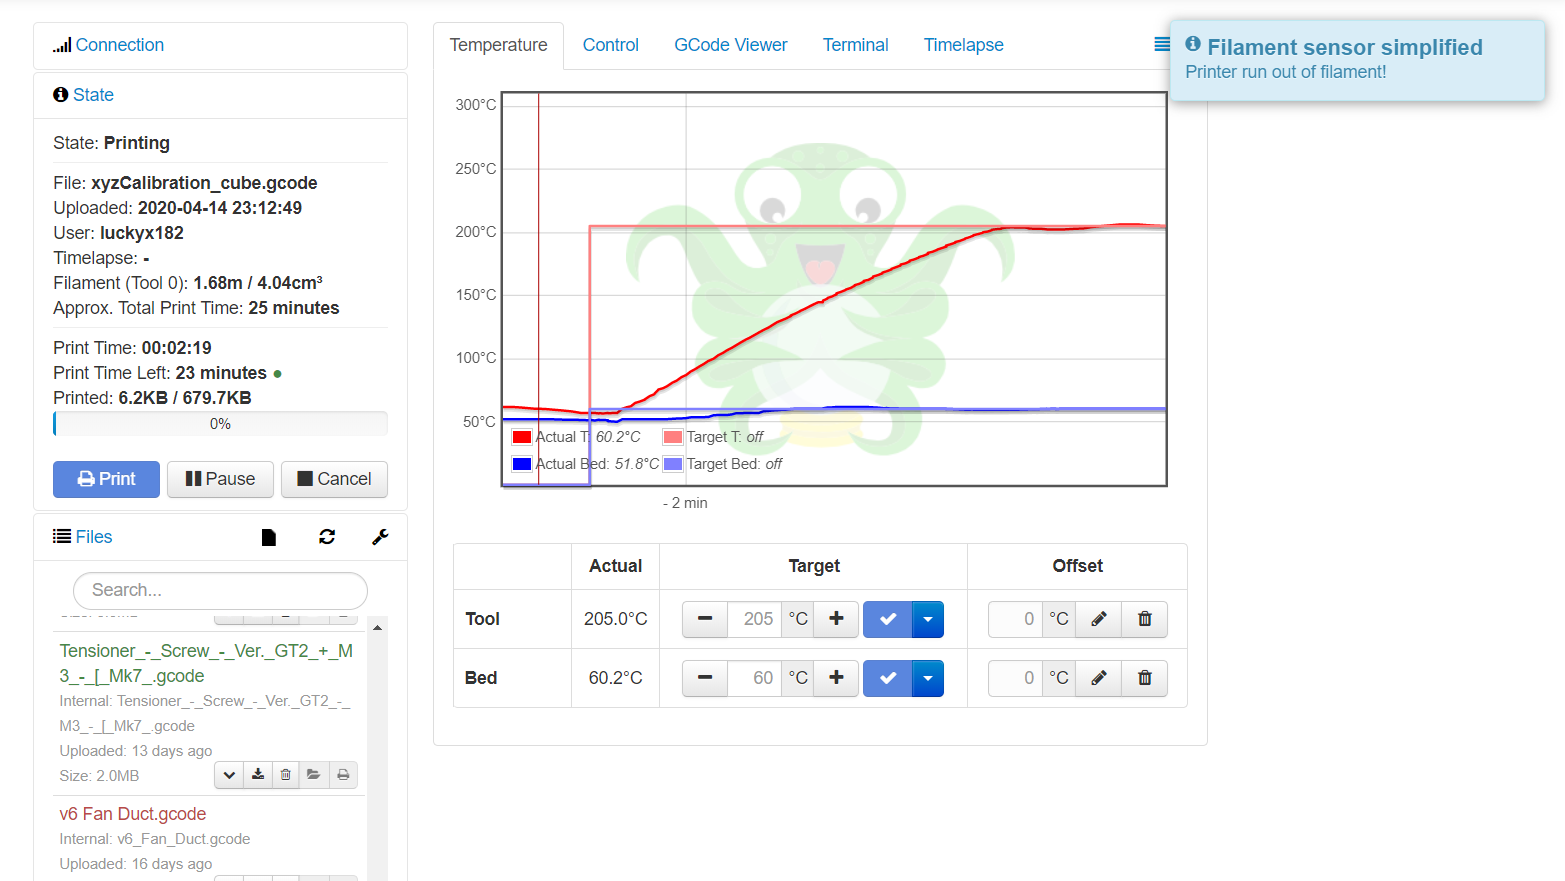
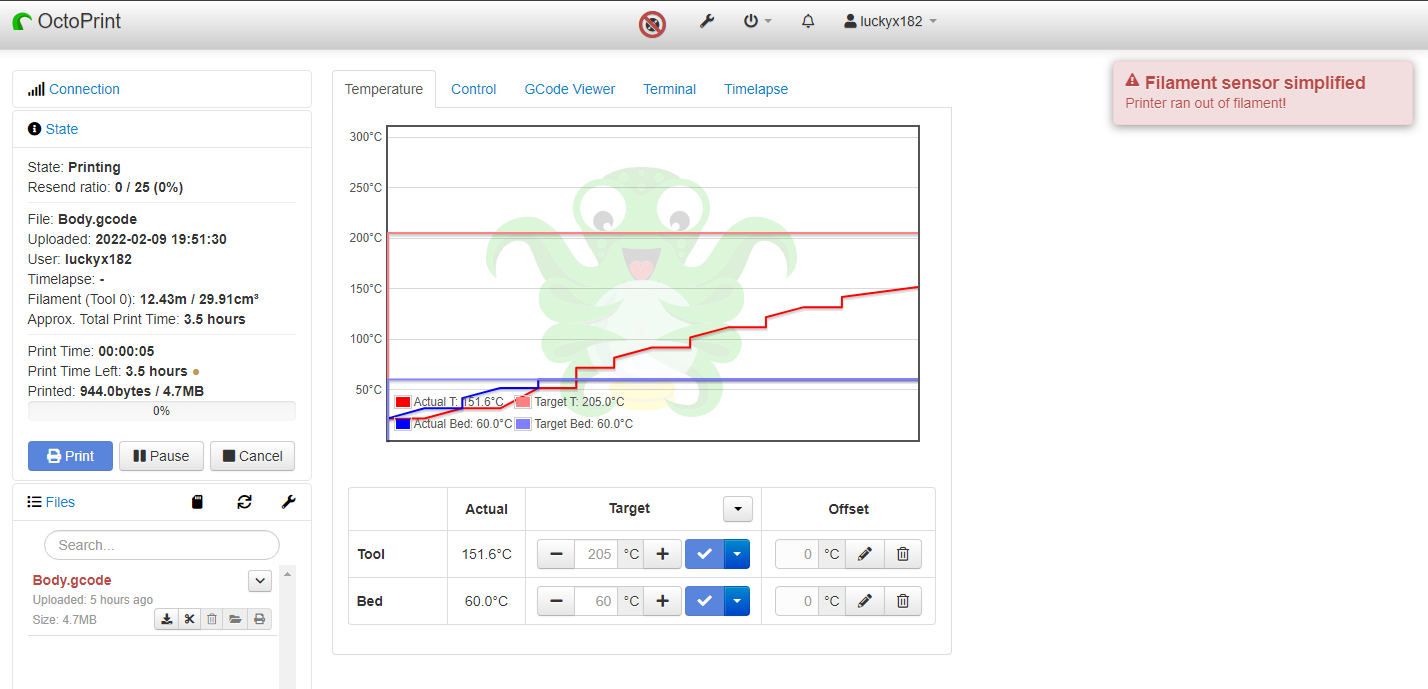
pop-up change

diff --git a/octoprint_filamentsensorsimplified/__init__.py b/octoprint_filamentsensorsimplified/__init__.py
@@ -124,7 +124,7 @@ class Filament_sensor_simplifiedPlugin(octoprint.plugin.StartupPlugin,
 
     def show_printer_runout_popup(self):
         self._plugin_manager.send_plugin_message(self._identifier,
-                                                 dict(type="info", autoClose=False, msg="Printer ran out of filament!"))
+                                                 dict(type="error", autoClose=False, msg="Printer ran out of filament!"))
 
     def send_out_of_filament(self):
         self.show_printer_runout_popup()

diff --git a/README.md b/README.md
@@ -41,7 +41,7 @@ by the "Broadcom SOC channel", if this is selected by 3rd party, this option wil
 
 Default pin is 0 (not configured) and ground (as it is safer, read below).
 
-After configuring it is best to restart Octoprint and check if the filament change works correctly to avoid any problems.
+After configuring it is best to restart Octoprint and dry-run to check if the filament change works correctly to avoid any problems.
 
 **WARNING! Never connect the switch input to 5V as it could fry the GPIO section of your Raspberry!**
 
